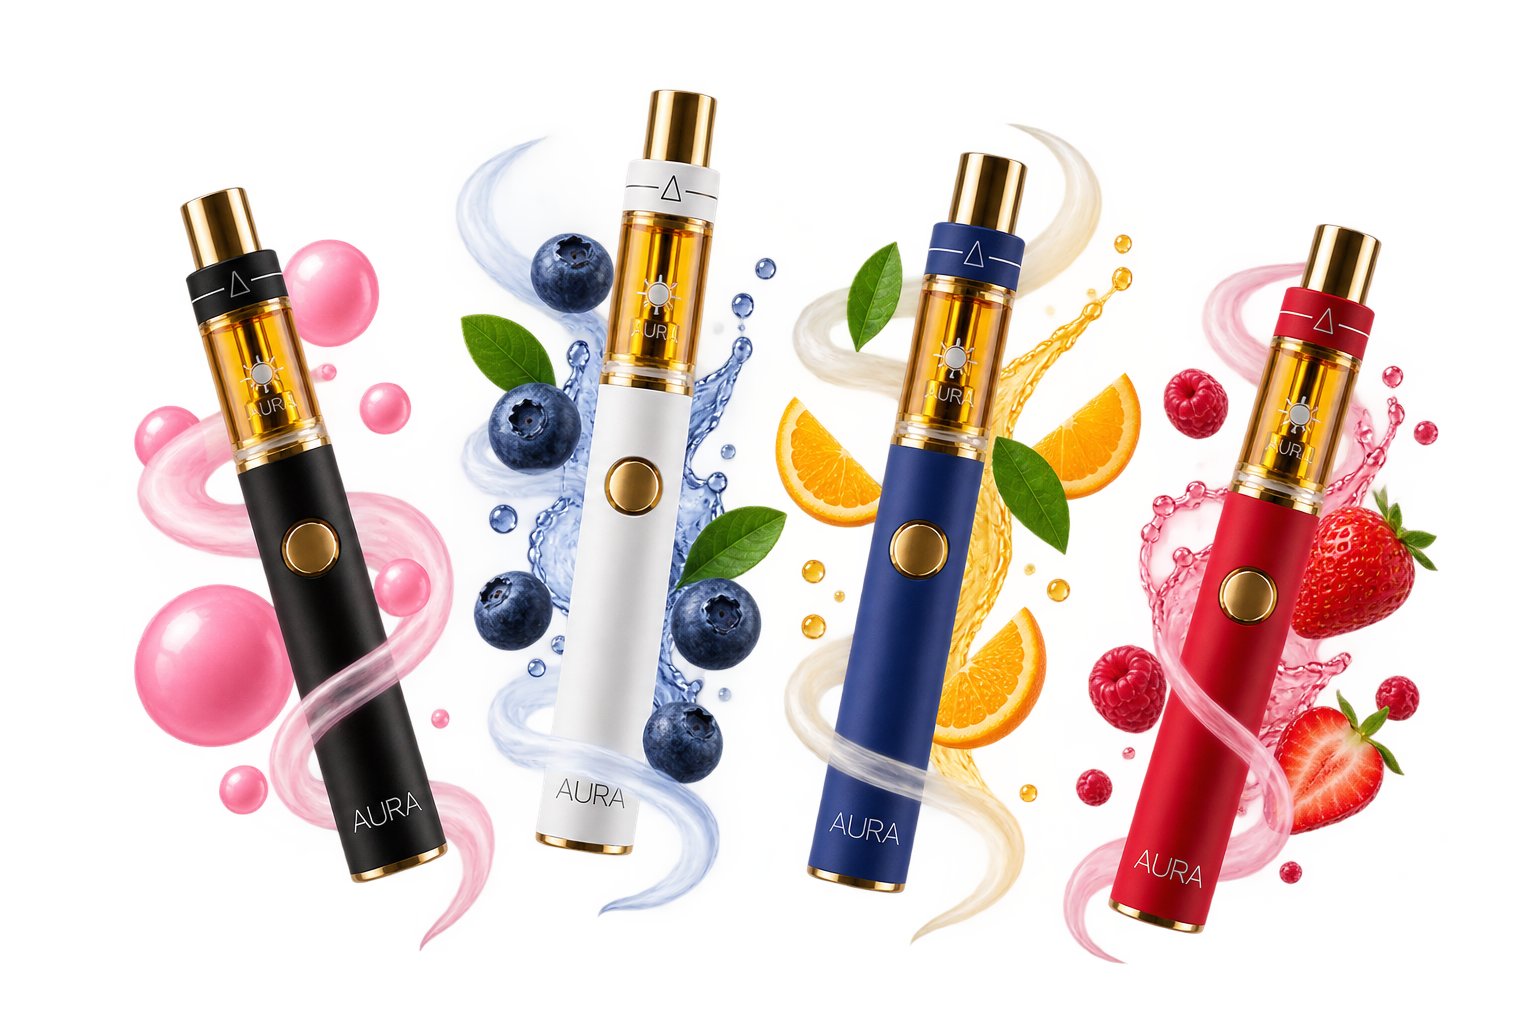
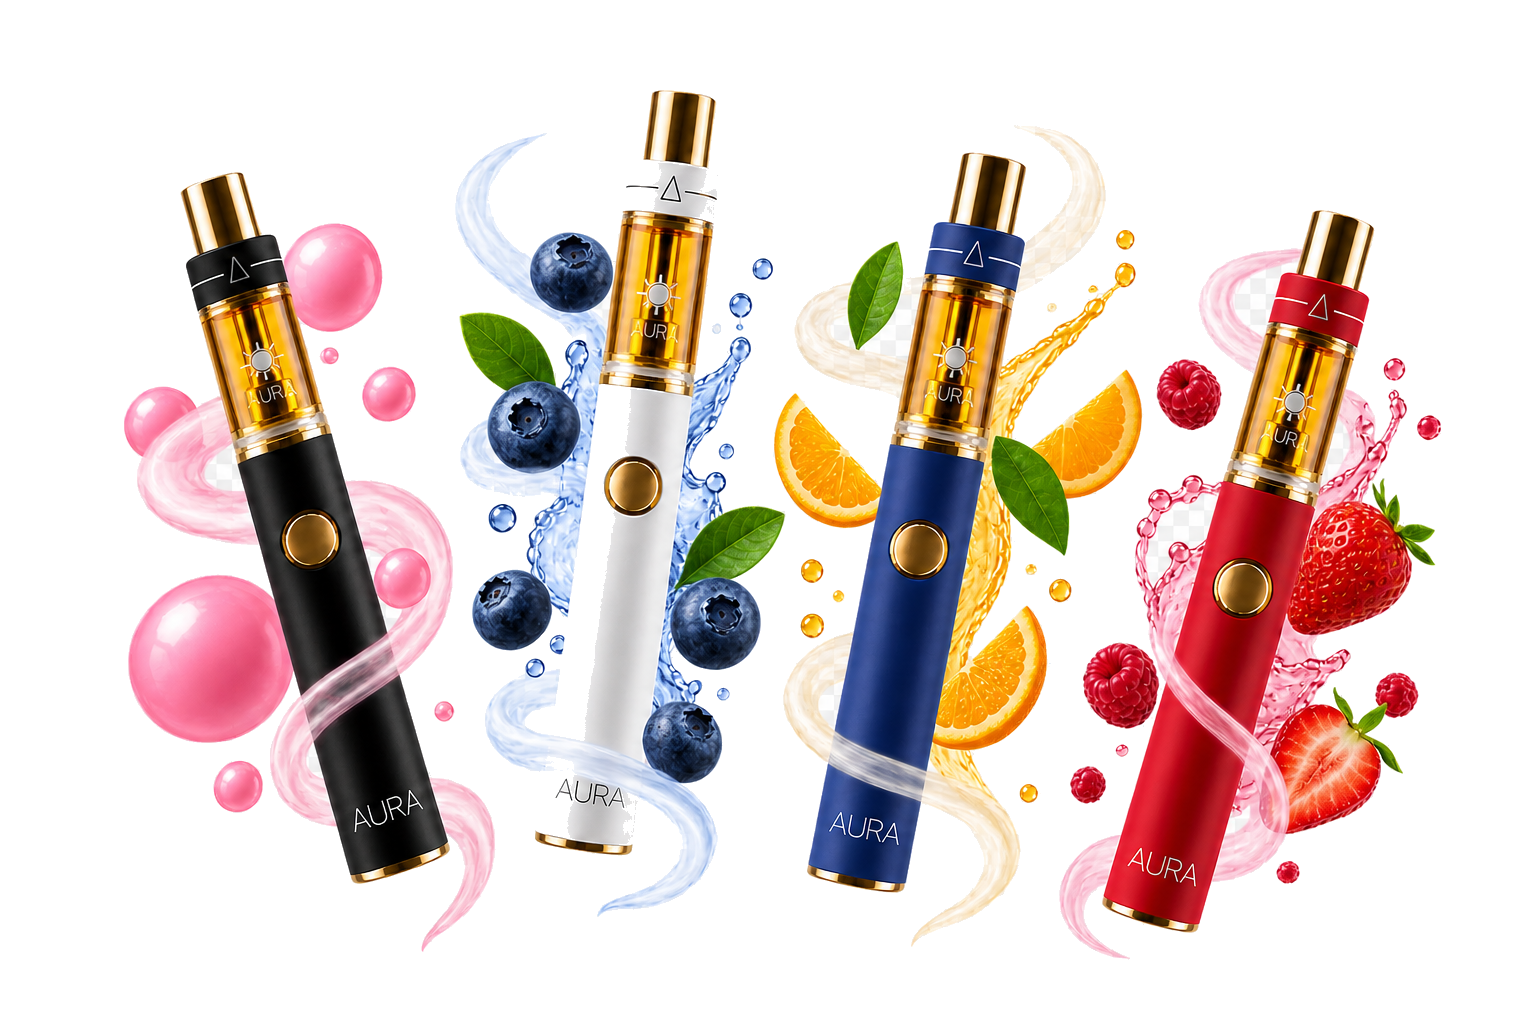
fix(hero): restore sphere behind transparent collection art
- Remove the generated artwork's checkerboard background and keep a real alpha channel.
- Restore the existing sphere and orbit layers behind the hero foreground.
- Limit the OG product to its actual 1ml format.

diff --git a/app/globals.css b/app/globals.css
@@ -191,23 +191,79 @@ select {
 
 .aura-home-product-stage {
   position: relative;
-  width: 100%;
-  aspect-ratio: 3 / 2;
-  overflow: hidden;
-  border: 1px solid rgba(23, 32, 27, 0.14);
-  border-radius: clamp(1.5rem, 3vw, 2.5rem);
-  background: #080808;
-  box-shadow: 0 34px 75px rgba(23, 32, 27, 0.18);
+  height: min(69vh, 44rem);
+  min-height: 35rem;
+}
+
+.aura-home-product-disc {
+  position: absolute;
+  top: 50%;
+  left: 51%;
+  width: min(36vw, 32rem);
+  aspect-ratio: 1;
+  border-radius: 999px;
+  background: radial-gradient(circle at 37% 30%, rgba(255, 255, 255, 0.98), rgba(238, 232, 217, 0.82) 55%, rgba(207, 197, 177, 0.8));
+  box-shadow: 0 34px 75px rgba(23, 32, 27, 0.11);
+  transform: translate(-50%, -50%);
+}
+
+.aura-home-product-orbits {
+  position: absolute;
+  inset: 4% -4%;
+  z-index: 1;
+  pointer-events: none;
+}
+
+.aura-home-product-orbit {
+  position: absolute;
+  top: 50%;
+  left: 51%;
+  border: 1px solid rgba(23, 32, 27, 0.15);
+  border-radius: 50%;
+  transform-origin: center;
+}
+
+.aura-home-product-orbit-wide {
+  width: 91%;
+  height: 43%;
+  border-color: rgba(23, 32, 27, 0.16);
+  transform: translate(-50%, -50%) rotate(-18deg);
+  animation: aura-home-orbit-wide 32s linear infinite;
+}
+
+.aura-home-product-orbit-tall {
+  width: 64%;
+  height: 72%;
+  border-color: rgba(161, 98, 7, 0.2);
+  transform: translate(-50%, -50%) rotate(32deg);
+  animation: aura-home-orbit-tall 38s linear infinite reverse;
+}
+
+.aura-home-product-lineup {
+  position: absolute;
+  inset: 0;
+  z-index: 2;
 }
 
 .aura-home-hero-image {
-  object-fit: cover;
+  object-fit: contain;
   object-position: center;
+}
+
+@keyframes aura-home-orbit-wide {
+  from { transform: translate(-50%, -50%) rotate(-18deg); }
+  to { transform: translate(-50%, -50%) rotate(342deg); }
+}
+
+@keyframes aura-home-orbit-tall {
+  from { transform: translate(-50%, -50%) rotate(32deg); }
+  to { transform: translate(-50%, -50%) rotate(392deg); }
 }
 
 @media (max-width: 900px) {
   .aura-home-hero-inner { grid-template-columns: minmax(0, 0.9fr) minmax(25rem, 1.1fr); gap: 1rem; }
   .aura-home-hero-title { font-size: clamp(3.75rem, 8vw, 5.5rem); }
+  .aura-home-product-stage { min-height: 31rem; }
 }
 
 @media (min-width: 640px) {
@@ -231,12 +287,18 @@ select {
   .aura-home-hero-title { align-items: center; font-size: clamp(3.25rem, 15.8vw, 5.25rem); line-height: 0.86; }
   .aura-home-hero-description { max-width: 30rem; margin: 1.15rem auto 0; font-size: 0.95rem; line-height: 1.65; }
   .aura-home-hero-actions { justify-content: center; margin-top: 1.25rem; }
-  .aura-home-product-stage { order: 1; width: min(100%, 34rem); margin-top: 0; }
+  .aura-home-product-stage { order: 1; width: min(100%, 34rem); height: 23rem; min-height: 0; margin-top: 0; }
+  .aura-home-product-disc { left: 50%; width: min(76vw, 21rem); }
+  .aura-home-product-orbits { inset: 2% -2%; }
+  .aura-home-product-orbit { left: 50%; }
+  .aura-home-product-orbit-wide { width: 102%; height: 44%; }
+  .aura-home-product-orbit-tall { width: 68%; height: 78%; }
 }
 
 @media (max-width: 420px) {
   .aura-home-hero-actions { gap: 0.35rem; }
   .aura-home-hero-primary { padding-inline: 1.3rem; }
+  .aura-home-product-stage { height: 22.5rem; }
 }
 
 .gradient-text {
@@ -845,6 +907,10 @@ select {
   }
 
   .aura-product-image {
+    animation: none;
+  }
+
+  .aura-home-product-orbit {
     animation: none;
   }
 

diff --git a/components/Hero.tsx b/components/Hero.tsx
@@ -51,16 +51,23 @@ const Hero = ({ onVideoLoaded, className }: HeroProps) => {
         </div>
 
         <div className="aura-home-product-stage">
-          <Image
-            src="/images/aura-hero-collection.png"
-            alt="Four Aura disposable vapes with fruit-inspired flavors"
-            fill
-            priority
-            sizes="(max-width: 767px) 100vw, 58vw"
-            className="aura-home-hero-image"
-            onLoad={markHeroReady}
-            onError={markHeroReady}
-          />
+          <div className="aura-home-product-disc" aria-hidden="true" />
+          <div className="aura-home-product-orbits" aria-hidden="true">
+            <span className="aura-home-product-orbit aura-home-product-orbit-wide" />
+            <span className="aura-home-product-orbit aura-home-product-orbit-tall" />
+          </div>
+          <div className="aura-home-product-lineup">
+            <Image
+              src="/images/aura-hero-collection.png"
+              alt="Four Aura disposable vapes with fruit-inspired flavors"
+              fill
+              priority
+              sizes="(max-width: 767px) 100vw, 58vw"
+              className="aura-home-hero-image"
+              onLoad={markHeroReady}
+              onError={markHeroReady}
+            />
+          </div>
         </div>
       </div>
     </section>

diff --git a/lib/storeCatalog.ts b/lib/storeCatalog.ts
@@ -73,7 +73,7 @@ export const STORE_PRODUCTS: StoreProduct[] = [
     gallery: ["/images/IMG_20260408_135851_018.jpg"],
     flavor: "Berry, Bubble Gum, Earthy",
     effects: "Calm, Rest, Deep Relaxation",
-    size: "1ml . 2ml",
+    size: "1ml",
     price: "$40",
     description:
       "OG is a rich, dessert-inspired indica profile blending sweet berry notes with nostalgic bubble gum and smooth earthy depth. Creamy on the inhale and grounding on the finish, this strain is crafted for evening wind-down, body ease, and tranquil rest.",
